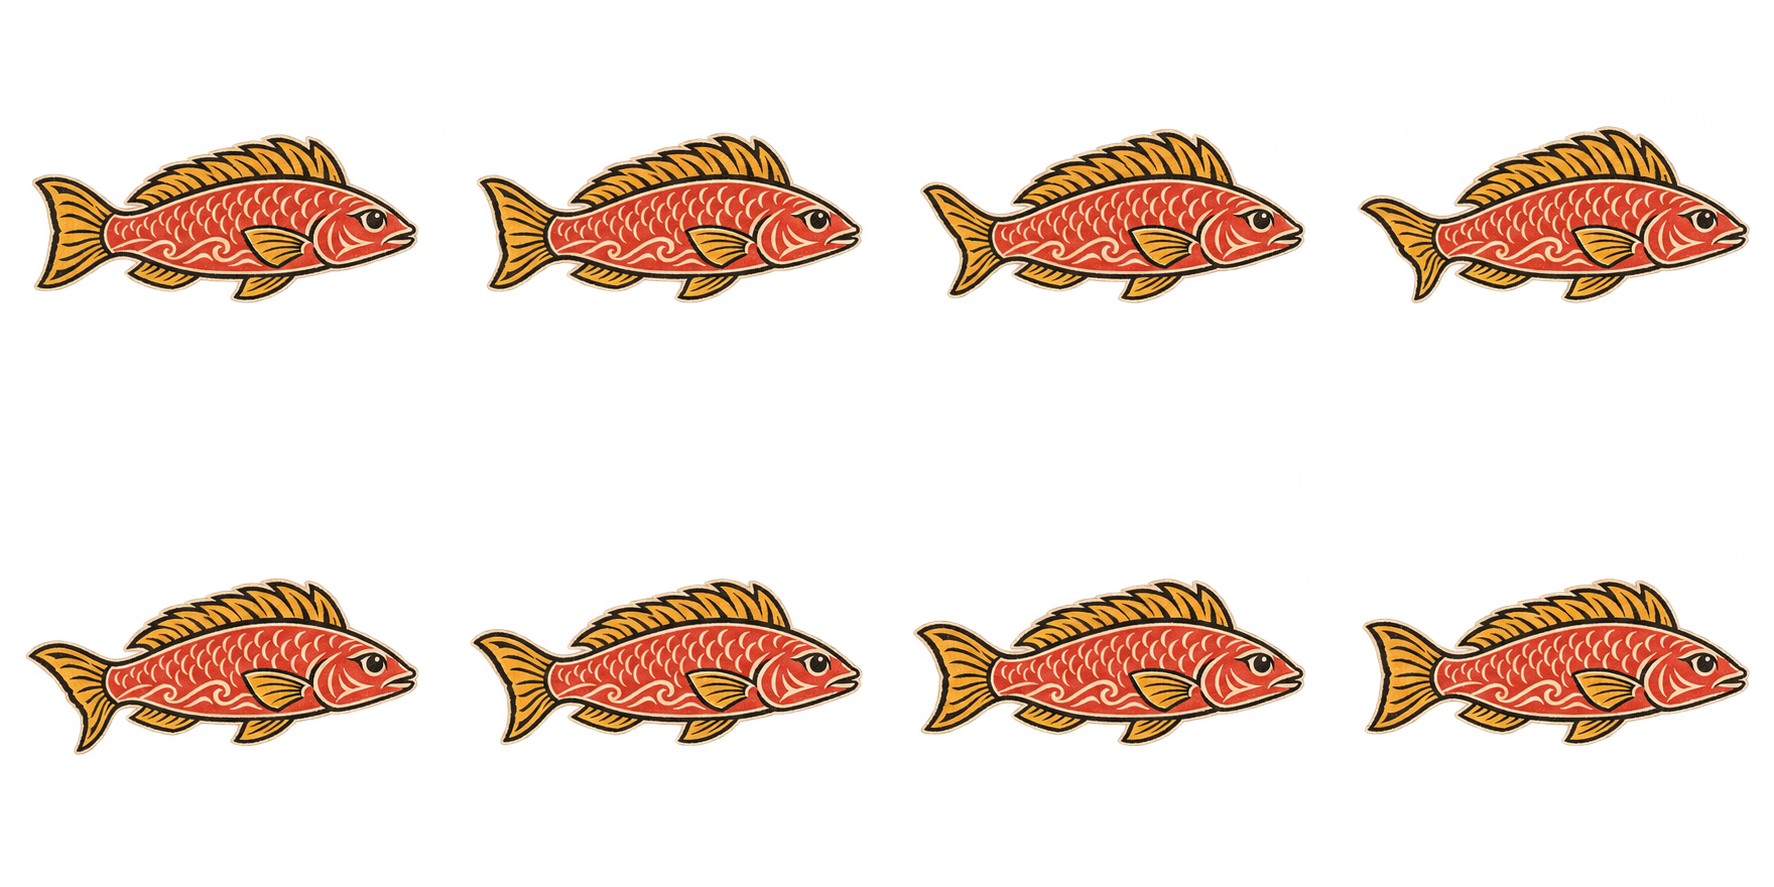
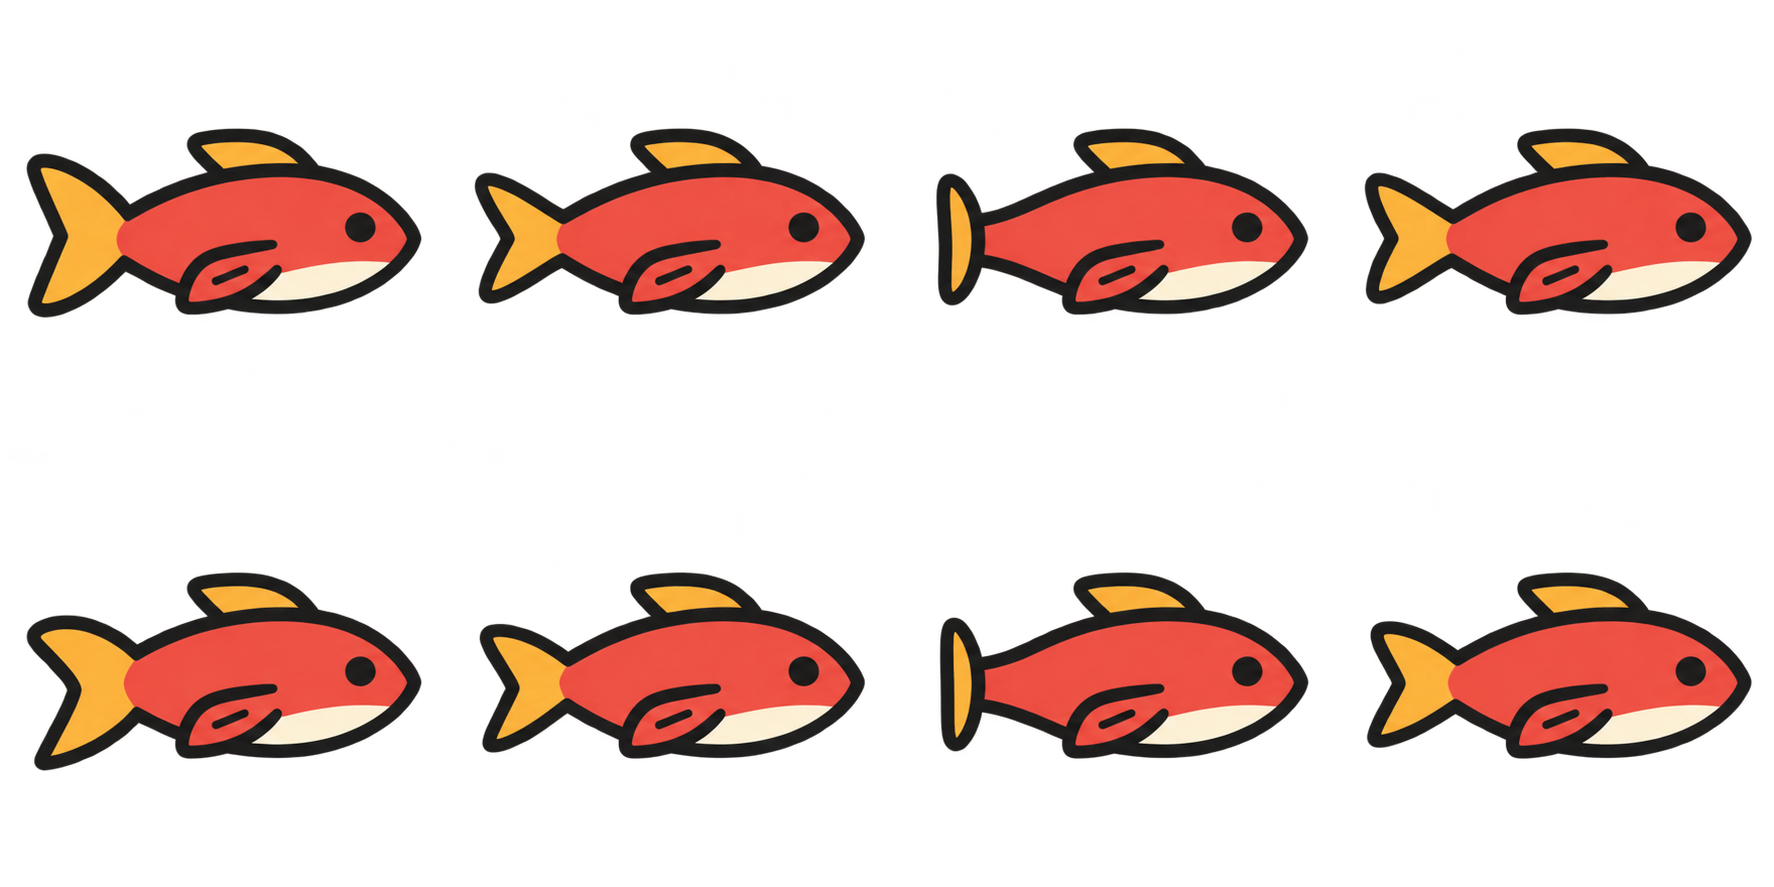
Simplify small fish sprites and add controlled swim and float states

diff --git a/src/game.js b/src/game.js
@@ -151,7 +151,7 @@ class ReefScene extends Phaser.Scene {
   preload() {
     this.load.image('reef-print', '/images/game/reef.webp');
     for (const [key,file] of [['reef-diver','diver-swim'],['fish-reef','gold-swim'],['fish-moon','teal-swim'],['fish-coral','coral-swim'],['reef-shark','shark-swim'],['villager-0','malia-idle'],['villager-1','tane-idle'],['villager-2','piko-idle']]) {
-      this.load.spritesheet(key, `/images/game/${file}.webp`, {frameWidth:256,frameHeight:256});
+      this.load.spritesheet(key, `/images/game/${file}.webp?v=simple-fish-idle-5`, {frameWidth:256,frameHeight:256});
     }
     this.load.image('village-art','/images/game/village-night.webp');
     this.load.image('boat-art','/images/game/boat.webp');
@@ -172,7 +172,8 @@ class ReefScene extends Phaser.Scene {
     this.makeReefObjects();
     this.player = this.physics.add.sprite(145, 255, 'reef-diver').setDisplaySize(150,150).setDepth(10);
     this.player.setBodySize(100, 75).setCollideWorldBounds(true).setDrag(620, 620).setMaxVelocity(220, 180);
-    if(!reducedMotion)this.player.play('reef-diver-loop');
+    this.locomotionState=null;
+    this.setLocomotionState(false);
     this.physics.world.setBounds(0, 112, WORLD_WIDTH, 360);
     this.cameras.main.setBounds(0, 0, WORLD_WIDTH, HEIGHT);
     this.cameras.main.startFollow(this.player, true, .08, .08);
@@ -185,6 +186,9 @@ class ReefScene extends Phaser.Scene {
       if (event.code === 'Escape' || event.key === 'Escape') { event.preventDefault(); this.returnHome(); }
     };
     this.input.keyboard.on('keydown', this.keyboardHandler);
+    this.releaseControls=()=>{this.touch={x:0,y:0};this.moveTarget=null;this.input.keyboard.resetKeys();this.player.setVelocity(0,0);this.setLocomotionState(false);};
+    window.addEventListener('blur',this.releaseControls);
+    this.game.events.on('release-controls',this.releaseControls);
     this.physics.add.overlap(this.player, this.predator, this.onPredatorBump, null, this);
     this.physics.add.overlap(this.player, this.fishGroup, this.onFishBump, null, this);
     this.physics.add.overlap(this.player, this.charm, () => { this.charmNearby = true; }, null, this);
@@ -198,6 +202,8 @@ class ReefScene extends Phaser.Scene {
       this.game.events.off('touch-move', this.setTouch, this);
       this.game.events.off('catch-action', this.catchNearby, this);
       this.input.keyboard.off('keydown', this.keyboardHandler);
+      window.removeEventListener('blur',this.releaseControls);
+      this.game.events.off('release-controls',this.releaseControls);
     });
     this.input.on('pointerdown', (pointer) => {
       if (!this.activeDive || pointer.downElement?.id === 'start-button') return;
@@ -258,6 +264,16 @@ class ReefScene extends Phaser.Scene {
     // Reef scenery is painted into the illustrated environment layer.
     this.add.text(WORLD_WIDTH-165, 137, 'SWIM HOME  ←', { fontFamily: 'system-ui', fontSize: '11px', color: '#173f40', fontStyle: 'bold', backgroundColor: '#f3e8c6', padding: { x: 6, y: 4 } }).setDepth(6);
   }
+  setLocomotionState(moving) {
+    const state=moving?'swimming':'floating';
+    if(this.locomotionState!==state){
+      this.locomotionState=state;
+      if(moving&&!reducedMotion)this.player.play('reef-diver-loop');
+      else {this.player.anims.stop();this.player.setFrame(2);}
+      this.game.canvas.dataset.swimmerState=state;
+    }
+    this.game.canvas.dataset.swimmerFrame=String(this.player.frame.name);
+  }
   startDive() {
     if (this.activeDive) return;
     this.activeDive = true; trip.active = true; trip.air = 100; trip.haul = 0; trip.foundCharm = false; this.charmNearby = false;
@@ -265,6 +281,7 @@ class ReefScene extends Phaser.Scene {
     ui.hint.innerHTML = saved.spearGun ? 'Move near a fish and press <kbd>SPACE</kbd> to fire your spear gun.' : 'Swim close to a fish, then press <kbd>SPACE</kbd> or Catch.';
     this.game.canvas.focus();
     this.player.setPosition(145, 255).setVelocity(0, 0).setAlpha(1);
+    this.setLocomotionState(false);
     this.cameras.main.startFollow(this.player, true, .08, .08);
     updateHud(); toast('Follow the fish. Find the shell charm farther along the reef.');
   }
@@ -322,6 +339,7 @@ class ReefScene extends Phaser.Scene {
   returnHome(reason = 'You chose to return') {
     if (!this.activeDive) return;
     this.activeDive = false; trip.active = false; trip.air = Math.max(1, trip.air);
+    this.setLocomotionState(false);
     this.player.setVelocity(0,0); ui.returnButton.disabled = true; ui.phase.textContent = 'BACK ON SHORE';
     if (trip.haul > saved.bestHaul) { saved.bestHaul = trip.haul; persist(); ui.scoreForm.hidden = trip.haul <= 0; }
     ui.nightTitle.textContent = reason.includes('air') ? 'A good time to come home.' : 'Welcome home, diver.';
@@ -354,6 +372,7 @@ class ReefScene extends Phaser.Scene {
     const down = this.cursors.down.isDown || this.wasd.S.isDown;
     let vx = Number(right) - Number(left) + this.touch.x;
     let vy = Number(down) - Number(up) + this.touch.y;
+    if(vx||vy)this.moveTarget=null;
     if (this.moveTarget) {
       const dx = this.moveTarget.x - this.player.x; const dy = this.moveTarget.y - this.player.y;
       if (Math.hypot(dx,dy) < 20) this.moveTarget = null;
@@ -361,8 +380,11 @@ class ReefScene extends Phaser.Scene {
     }
     const length = Math.hypot(vx,vy) || 1; const speed = saved.spearGun ? 188 : 208;
     if (vx || vy) this.player.setVelocity((vx/length)*speed,(vy/length)*speed); else this.player.setVelocity(0,0);
+    const swimming=Boolean(vx||vy);
+    this.setLocomotionState(swimming);
     if (vx) this.player.setFlipX(vx<0);
-    if (!reducedMotion) this.player.setAngle(Phaser.Math.Clamp(vy * 4,-10,10)); else this.player.setAngle(0);
+    const targetAngle=reducedMotion?0:swimming?Phaser.Math.Clamp(vy/length*6,-6,6):Math.sin(time/1200)*1.2;
+    this.player.setAngle(Phaser.Math.Linear(this.player.angle,targetAngle,Math.min(1,dt*8)));
     this.game.canvas.dataset.playerPosition = `${Math.round(this.player.x)},${Math.round(this.player.y)}`;
     this.fishList.forEach((fish) => {
       if (!fish.active || fish.getData('caught')) return;
@@ -499,7 +521,7 @@ document.querySelectorAll('[data-move]').forEach(button=>{
   const stop=event=>{event.preventDefault();if(button.hasPointerCapture?.(event.pointerId))button.releasePointerCapture(event.pointerId);send(0,0);};
   button.addEventListener('pointerup',stop);button.addEventListener('pointercancel',stop);button.addEventListener('pointerleave',stop);
 });
-document.addEventListener('visibilitychange',()=>{if(document.hidden){game.loop.sleep();}else{game.loop.wake();}});
+document.addEventListener('visibilitychange',()=>{if(document.hidden){game.events.emit('release-controls');game.loop.sleep();}else{game.loop.wake();}});
 document.querySelector('#score-form').addEventListener('submit',async event=>{
   event.preventDefault();const button=ui.scoreForm.querySelector('button');button.disabled=true;button.textContent='Saving…';
   try{const response=await fetch('/api/scores',{method:'POST',headers:{'Content-Type':'application/json'},body:JSON.stringify({game:GAME_SLUG,nickname:new FormData(ui.scoreForm).get('nickname'),score:trip.haul})});if(!response.ok)throw Error();ui.scoreForm.hidden=true;toast('Your basket is on the board!');await loadScores();}

diff --git a/public/index.html b/public/index.html
@@ -7,8 +7,8 @@
   <meta name="description" content="Dive the reef, bring home fish, and help a village rebuild in Reefkeeper.">
   <title>Reefkeeper — Charlie's Game Lab</title>
   <link rel="preload" as="image" href="/images/reefkeeper-key-art.png">
-  <link rel="stylesheet" href="/style.css?v=village-idle-4">
-  <script src="/reefkeeper-2d.js?v=village-idle-4" defer></script>
+  <link rel="stylesheet" href="/style.css?v=simple-fish-idle-5">
+  <script src="/reefkeeper-2d.js?v=simple-fish-idle-5" defer></script>
 </head>
 <body>
   <div class="shell">

diff --git a/docs/game-art-pack.md b/docs/game-art-pack.md
@@ -145,3 +145,11 @@ Example sheet prompt structure:
 - Animated proof: `../outputs/game-art-animation-preview.gif`. The GIF plays 30 composite frames and shows all eight actor loops together, rather than relying on static sprite-sheet previews.
 - Browser smoke coverage includes keyboard and touch movement, capture, keepsake return, night conversations, a second active dive, and saved progress.
 - Built-in imagegen created the illustration and pose sheets. Sharp performs format conversion and frame packing; gifenc encodes the animated proof.
+
+## Small fish readability revision
+
+Redraw the blue/teal moonfin and red coral wrasse for roughly55 ×28 visible game pixels. Use a strong charcoal silhouette, one flat body color, one cream belly wedge, one dark eye, and at most two fin-ray strokes. Remove fine scale marks, ornamental spirals, crosshatching, speckles and busy internal patterns. Retain the4 ×2 transparent eight-frame tail-animation grid and fixed body/eye anchors. Built-in imagegen generated the replacement sheets; source provenance records the selected outputs.
+
+## Diver locomotion states
+
+Swim frames play only while keyboard, touch direction, or an active click-to-swim destination commands movement. On input release or destination arrival, transition to a fixed neutral frame with a gentle float/roll. Idle floating has no kicking or arm-stroke loop. Losing focus releases input and cancels the destination; keyboard/touch movement takes priority over a previous click destination. Reduced-motion mode holds the neutral pose.
